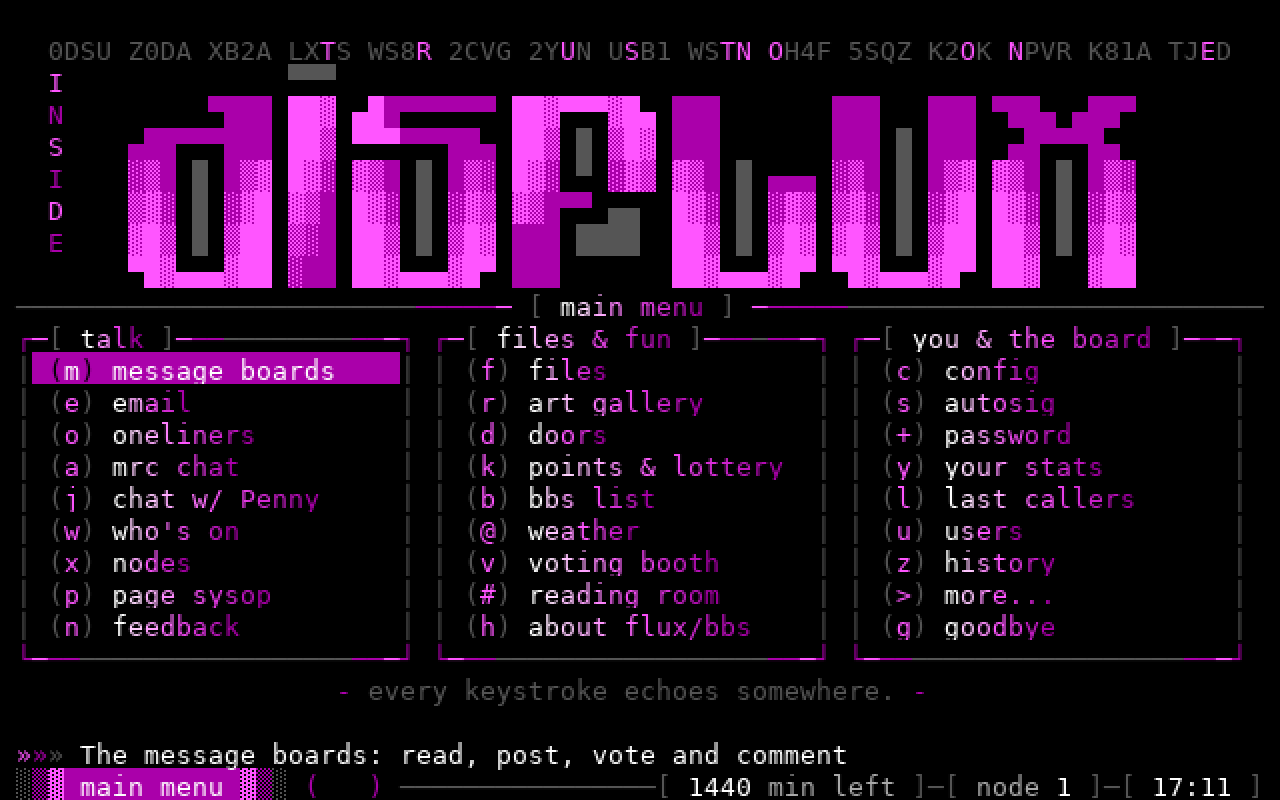
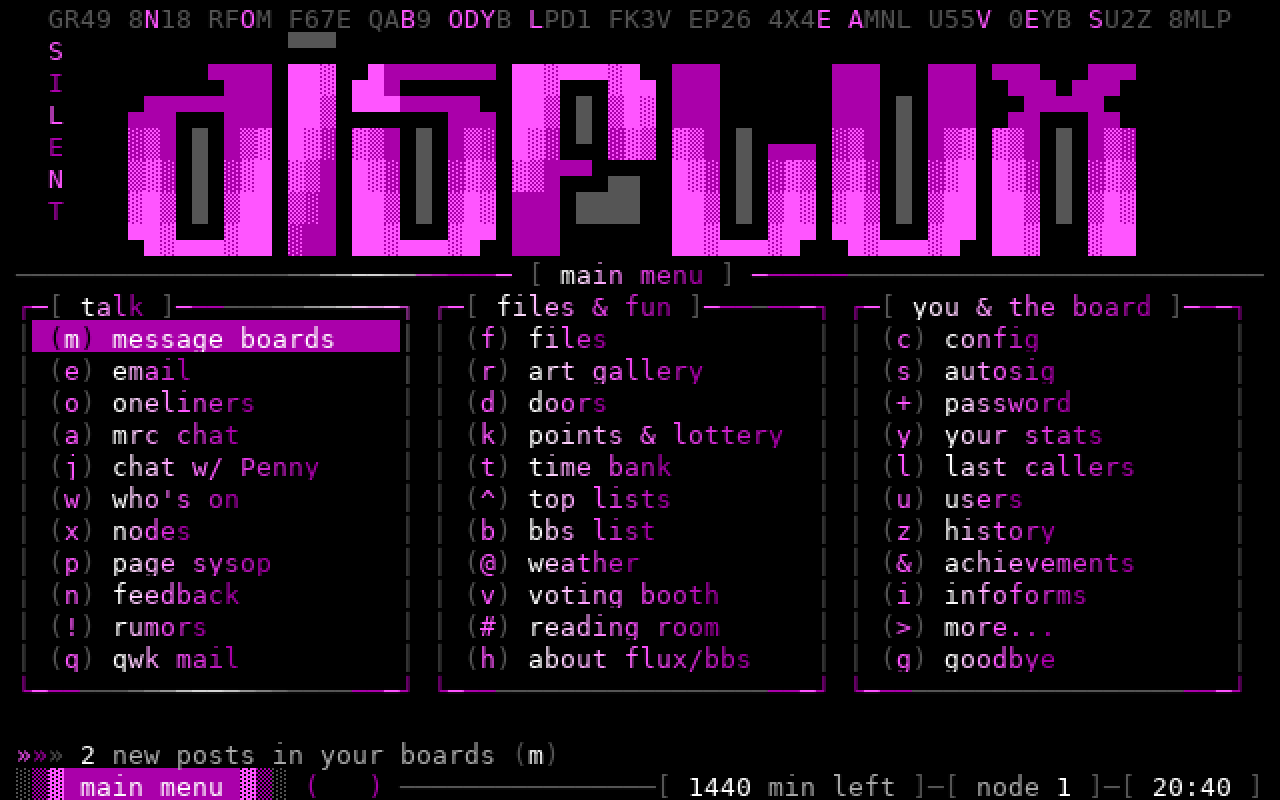
README: screenshots of the news (the front page, a story), the weather (Springfield's sky, the national map), LORD's Other Places with its Python modules, Carrier Lost, a gen from ANSI art from a prompt and achievements; the main menu again, with its eleven rows; the news its own section with the we

diff --git a/README.md b/README.md
@@ -104,6 +104,24 @@ and menus, and can look things up on the web when she needs to.
 |---|---|
 | ![MRC chat](docs/screenshots/mrc.png) | ![Chat with Penny](docs/screenshots/ai.png) |
 
+## The news and the weather
+
+Every few hours the board writes its own paper: its AI reads each
+section's news (world, tech, science, retro) from several outlets and
+writes each story from all of them, every sentence naming the sources it
+comes from and checked against them. The front page comes in editions,
+with a line on what each story is about and the ones you haven't read
+marked; callers vote on stories and leave one-line comments.
+
+The weather is the sky over your town in half-block pixels, animated,
+with the week ahead, the last month against normal, the drought monitor
+and the whole country on a map.
+
+| | |
+|---|---|
+| ![The news](docs/screenshots/news.png) | ![A story](docs/screenshots/news-story.png) |
+| ![The weather](docs/screenshots/weather.png) | ![The national map](docs/screenshots/weather-nation.png) |
+
 ## Doors and games
 
 LORD, BRE, TradeWars 2002, Overkill II and Usurper run as doors. The DOS
@@ -115,12 +133,15 @@ slots, video poker, blackjack, roulette, craps and a bar; Carrier Lost, a
 war-dialing game; tarot; and a reading room that puts a new shelf of
 textfiles out by the fire every day. And callers make ANSI art from a
 prompt, drawn by an image model trained on the scene's art on the
-SysOp's own GPU, and vote on each other's.
+SysOp's own GPU, and vote on each other's. Achievements come along the
+way, for posts, uploads, calls and days in a row.
 
 | | |
 |---|---|
 | ![The doors menu](docs/screenshots/doors.png) | ![LORD in the built-in DOS machine](docs/screenshots/lord.png) |
+| ![LORD's Other Places, with modules in Python](docs/screenshots/lord-places.png) | ![Carrier Lost](docs/screenshots/carrier.png) |
 | ![The casino](docs/screenshots/casino.png) | ![The slot machine](docs/screenshots/slots.png) |
+| ![A gen: ANSI art from a prompt](docs/screenshots/ansigen.png) | ![Achievements](docs/screenshots/achievements.png) |
 | ![The reading room](docs/screenshots/library.png) | ![Tarot](docs/screenshots/tarot.png) |
 
 Leave it alone at a menu for a while and the screen saver comes on.
@@ -135,8 +156,6 @@ Leave it alone at a menu for a while and the screen saver comes on.
   rules and email verification.
 - FTN echomail, netmail and file echoes (TIC) over binkp, with AreaFix
   and FileFix, several networks at once.
-- The news: each story written by the board's AI from several outlets,
-  every sentence naming its sources, with votes and comments.
 - QWK offline mail, request boards, @mentions, a voting booth,
   oneliners, rumors, infoforms, new-user voting and profiles, and
   feedback to the SysOp from callers not yet logged in.
